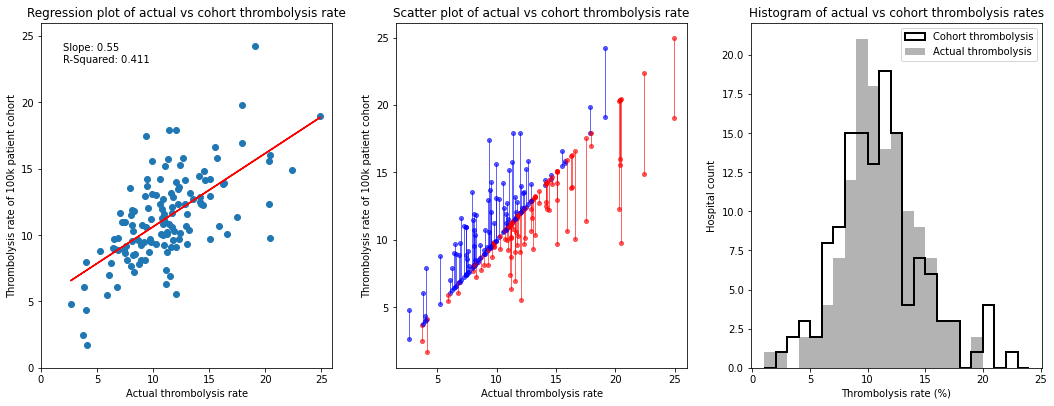
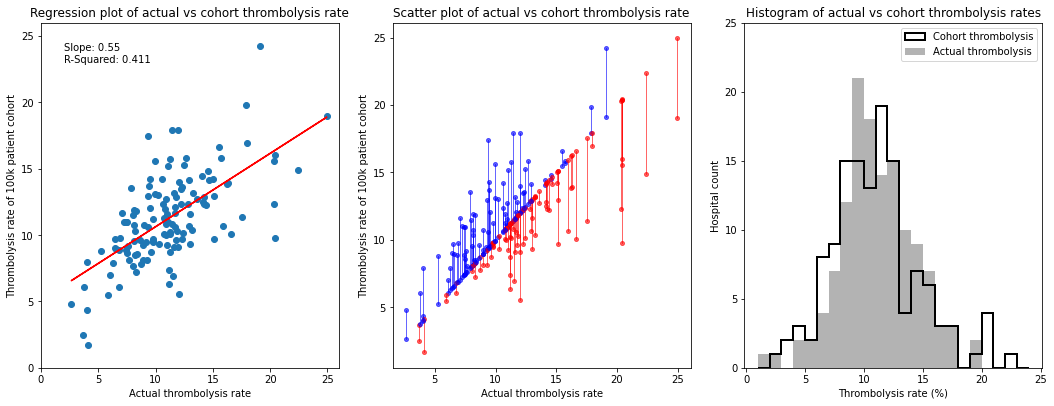
Update documentation

diff --git a/pathway_sim/scenario_analysis_1k_patient_cohort.html b/pathway_sim/scenario_analysis_1k_patient_cohort.html
@@ -1135,7 +1135,6 @@
     <span class="n">colour</span> <span class="o">=</span> <span class="s1">&#39;red&#39;</span> <span class="k">if</span> <span class="n">xx</span> <span class="o">&gt;</span> <span class="n">yy</span> <span class="k">else</span> <span class="s1">&#39;blue&#39;</span>
     <span class="n">ax2</span><span class="o">.</span><span class="n">plot</span><span class="p">([</span><span class="n">xx</span><span class="p">,</span><span class="n">xx</span><span class="p">],</span> <span class="p">[</span><span class="n">xx</span><span class="p">,</span><span class="n">yy</span><span class="p">],</span> 
              <span class="n">color</span><span class="o">=</span><span class="n">colour</span><span class="p">,</span> <span class="n">lw</span><span class="o">=</span><span class="mi">1</span><span class="p">,</span> <span class="n">marker</span><span class="o">=</span><span class="s1">&#39;o&#39;</span><span class="p">,</span> <span class="n">alpha</span><span class="o">=</span><span class="mf">0.6</span><span class="p">,</span> <span class="n">markersize</span><span class="o">=</span><span class="mi">4</span><span class="p">)</span>
-
 <span class="n">ax2</span><span class="o">.</span><span class="n">set_ylabel</span><span class="p">(</span><span class="s1">&#39;Thrombolysis rate of 100k patient cohort&#39;</span><span class="p">)</span>
 <span class="n">ax2</span><span class="o">.</span><span class="n">set_xlabel</span><span class="p">(</span><span class="s1">&#39;Actual thrombolysis rate&#39;</span><span class="p">)</span>
 <span class="n">ax2</span><span class="o">.</span><span class="n">set_title</span><span class="p">(</span><span class="s1">&#39;Scatter plot of actual vs cohort thrombolysis rate&#39;</span><span class="p">)</span>
@@ -1150,6 +1149,7 @@
 <span class="n">ax3</span><span class="o">.</span><span class="n">set_xlabel</span><span class="p">(</span><span class="s1">&#39;Thrombolysis rate (%)&#39;</span><span class="p">)</span>
 <span class="n">ax3</span><span class="o">.</span><span class="n">set_ylabel</span><span class="p">(</span><span class="s1">&#39;Hospital count&#39;</span><span class="p">)</span>
 <span class="n">ax3</span><span class="o">.</span><span class="n">set_title</span><span class="p">(</span><span class="s1">&#39;Histogram of actual vs cohort thrombolysis rates&#39;</span><span class="p">)</span>
+<span class="n">ax3</span><span class="o">.</span><span class="n">set_ylim</span><span class="p">(</span><span class="mi">0</span><span class="p">,</span><span class="mi">25</span><span class="p">)</span>
 <span class="n">ax3</span><span class="o">.</span><span class="n">legend</span><span class="p">()</span>
 
 <span class="n">plt</span><span class="o">.</span><span class="n">tight_layout</span><span class="p">(</span><span class="n">pad</span><span class="o">=</span><span class="mi">2</span><span class="p">)</span>
